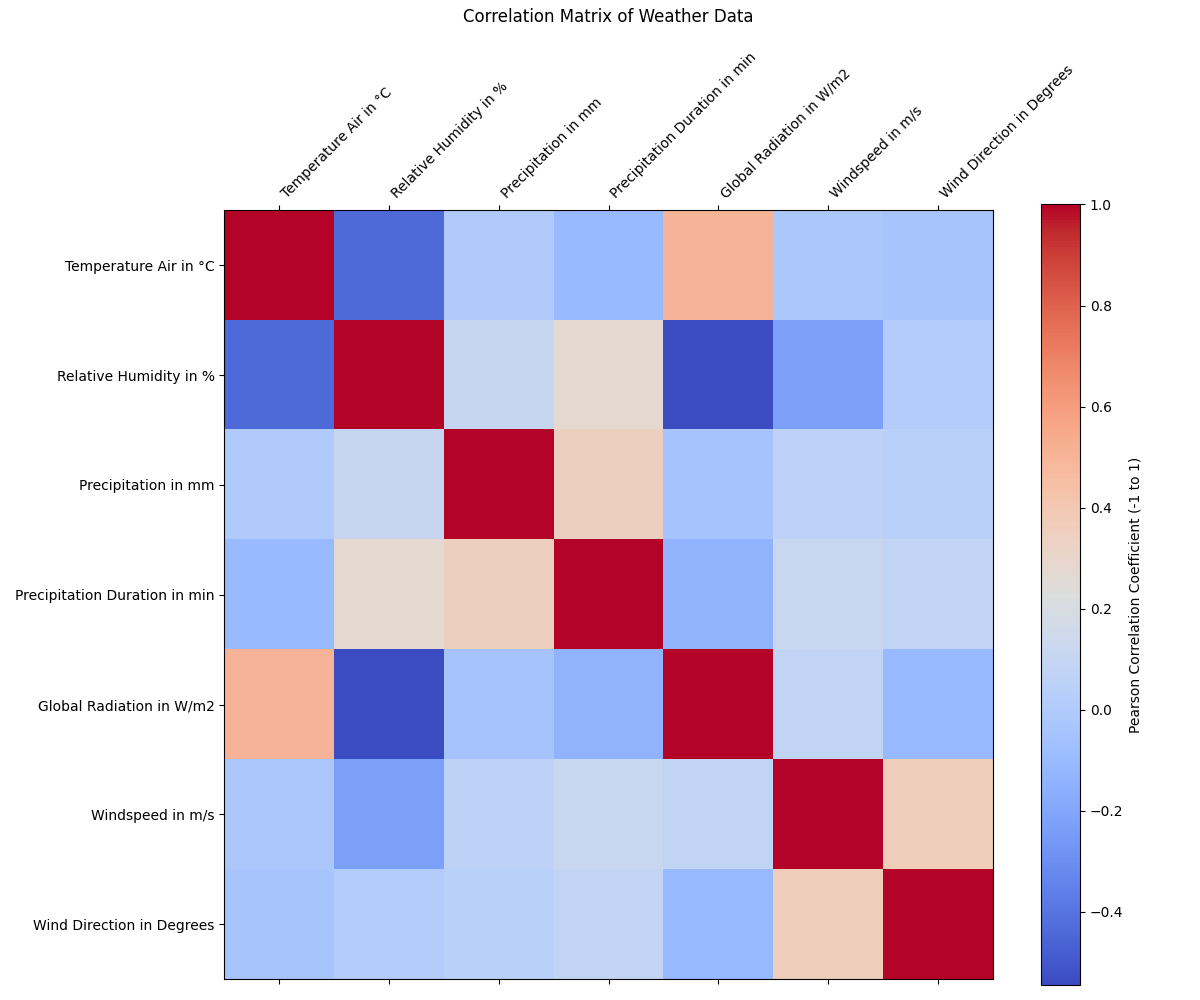
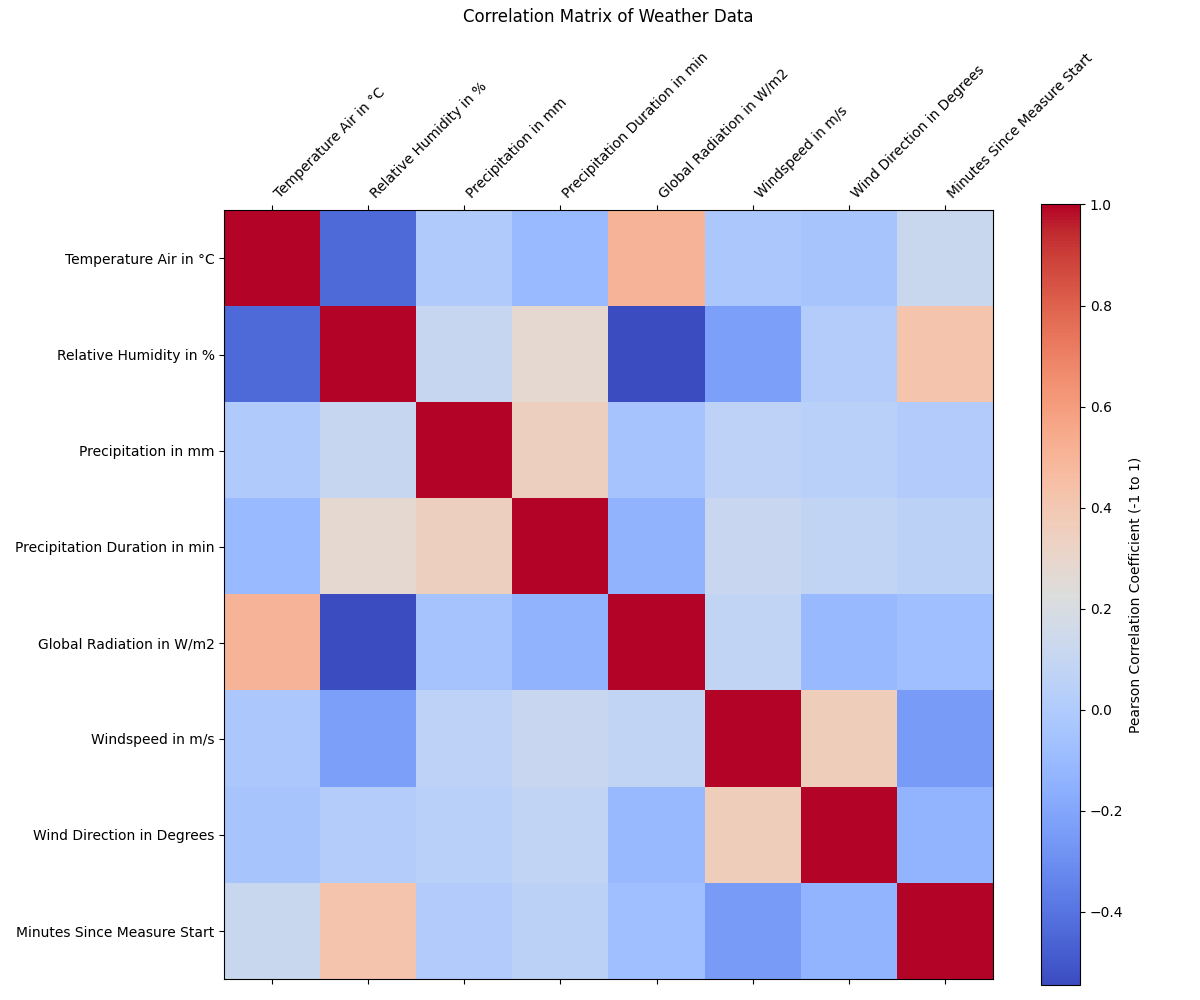
time/date correlation

diff --git a/Assignment2/part2_3.py b/Assignment2/part2_3.py
@@ -53,7 +53,10 @@ plt.show()
 ### Part 3: Correlation matrix
 
 # similarly also with matplotlib with correlation matrix, also plotting density
-# dont incldue date column, the first one
+# Convert 'Unnamed: 0' to datetime and then to minutes since start to enable correlation calculation
+data['Unnamed: 0'] = pd.to_datetime(data['Unnamed: 0'])
+min_time = data['Unnamed: 0'].min()
+data['Minutes Since Measure Start'] = (data['Unnamed: 0'] - min_time).dt.total_seconds() / 60
 data = data.drop(columns=['Unnamed: 0'])
 corr = data.corr()  # dont include date column
 fig, ax = plt.subplots(figsize=(12, 10))
